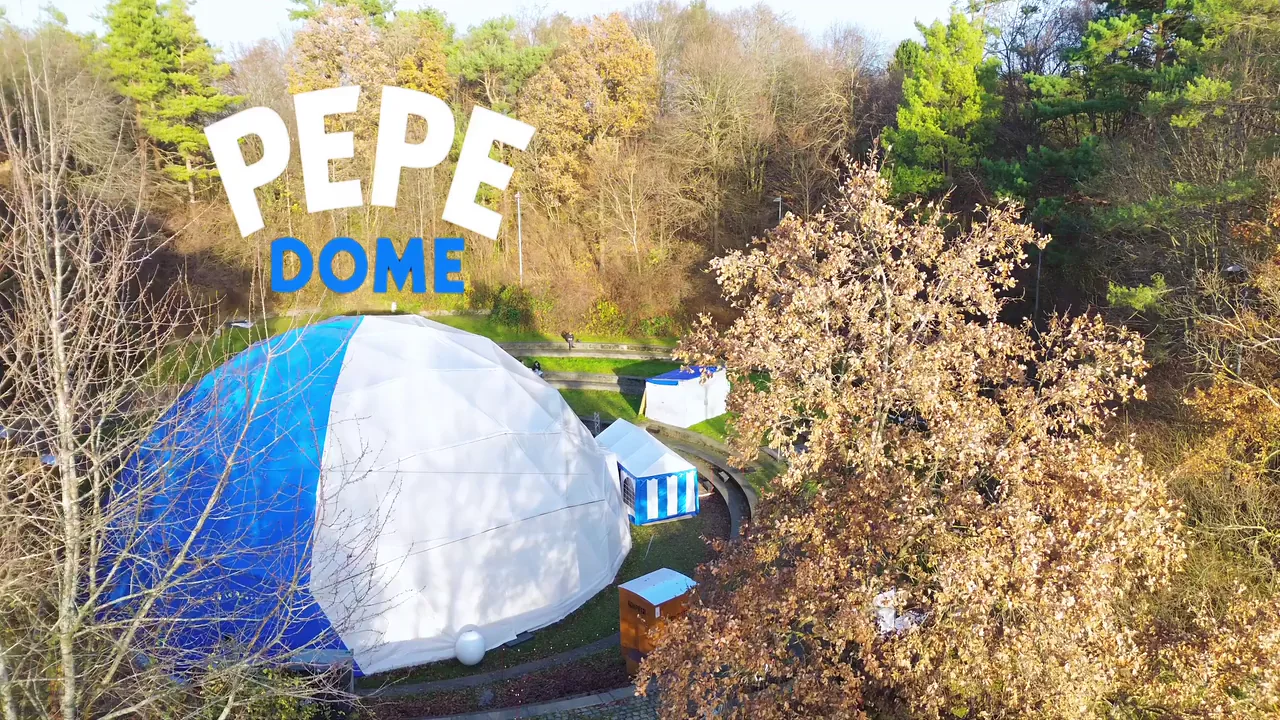
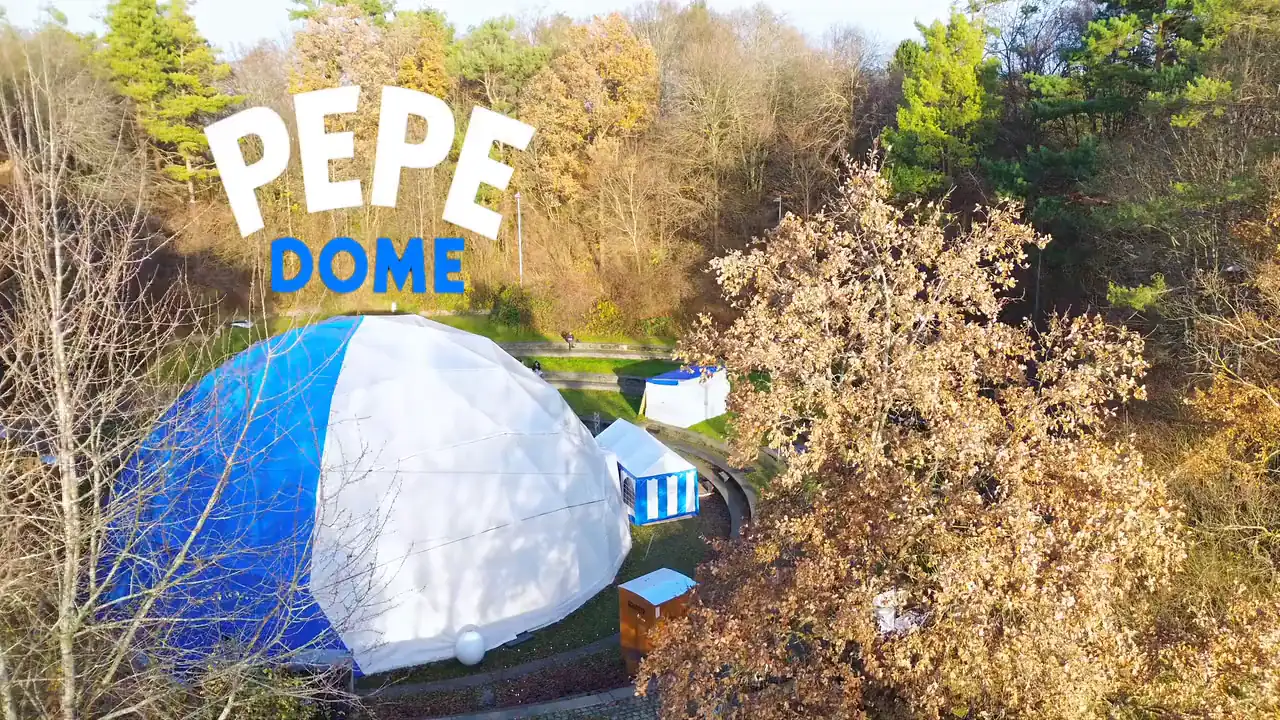
fix(hero): Poster pro Breakpoint — Hochkant-Poster für Mobile aus Video-Frame
- Neues hero-poster-mobile.webp (405x720, 36 KB): exakt Frame 0 des
  Hochkant-Videos -> nahtloser Übergang Poster -> Video auf Mobile;
  bisher wurde das 16:9-Poster auf Mobile hart beschnitten
- hero-poster.webp neu komprimiert (348 -> 220 KB, gleicher Inhalt =
  Frame 0 des Desktop-Videos; liegt hinter 65% Opacity, Qualitätsverlust
  unsichtbar)
- HeroBackgroundVideo wählt Poster wie das Video per Breakpoint; vor der
  Hydration übernehmen zwei CSS-Breakpoint-Divs das jeweils richtige Format

diff --git a/src/components/custom/HeroBackgroundVideo.tsx b/src/components/custom/HeroBackgroundVideo.tsx
@@ -7,33 +7,45 @@ const VIDEO = {
   desktop: '/videos/PepeDome-Atmosphaere.mp4',
 }
 
-const POSTER = '/images/Aufbau/hero-poster.webp'
+// Poster = jeweils der erste Frame des zugehörigen Videos → nahtloser Übergang
+const POSTER = {
+  mobile: '/images/Aufbau/hero-poster-mobile.webp',
+  desktop: '/images/Aufbau/hero-poster.webp',
+}
+
 const MD_BREAKPOINT = 768
 
 export default function HeroBackgroundVideo() {
-  const [src, setSrc] = useState<string | null>(null)
+  const [isDesktop, setIsDesktop] = useState<boolean | null>(null)
 
   useEffect(() => {
-    const setSource = () => {
-      const isDesktop = window.matchMedia(`(min-width: ${MD_BREAKPOINT}px)`).matches
-      setSrc(isDesktop ? VIDEO.desktop : VIDEO.mobile)
-    }
-
-    setSource()
     const mql = window.matchMedia(`(min-width: ${MD_BREAKPOINT}px)`)
-    mql.addEventListener('change', setSource)
-    return () => mql.removeEventListener('change', setSource)
+    const update = () => setIsDesktop(mql.matches)
+    update()
+    mql.addEventListener('change', update)
+    return () => mql.removeEventListener('change', update)
   }, [])
 
-  if (src == null) {
+  if (isDesktop == null) {
+    // Vor der Hydration: Poster rein per CSS-Breakpoint, damit sofort das
+    // richtige Format sichtbar ist (Hochkant auf Mobile, Quer auf Desktop)
     return (
-      <div
-        className="absolute inset-0 w-full h-full bg-cover bg-center opacity-65 bg-[var(--pepe-ink)]"
-        style={{ backgroundImage: `url(${POSTER})` }}
-        aria-hidden
-      />
+      <>
+        <div
+          className="absolute inset-0 w-full h-full bg-cover bg-center opacity-65 bg-[var(--pepe-ink)] md:hidden"
+          style={{ backgroundImage: `url(${POSTER.mobile})` }}
+          aria-hidden
+        />
+        <div
+          className="absolute inset-0 w-full h-full bg-cover bg-center opacity-65 bg-[var(--pepe-ink)] hidden md:block"
+          style={{ backgroundImage: `url(${POSTER.desktop})` }}
+          aria-hidden
+        />
+      </>
     )
   }
+
+  const src = isDesktop ? VIDEO.desktop : VIDEO.mobile
 
   return (
     <video
@@ -44,7 +56,7 @@ export default function HeroBackgroundVideo() {
       loop
       playsInline
       preload="auto"
-      poster={POSTER}
+      poster={isDesktop ? POSTER.desktop : POSTER.mobile}
       aria-hidden
     >
       <source src={src} type="video/mp4" />